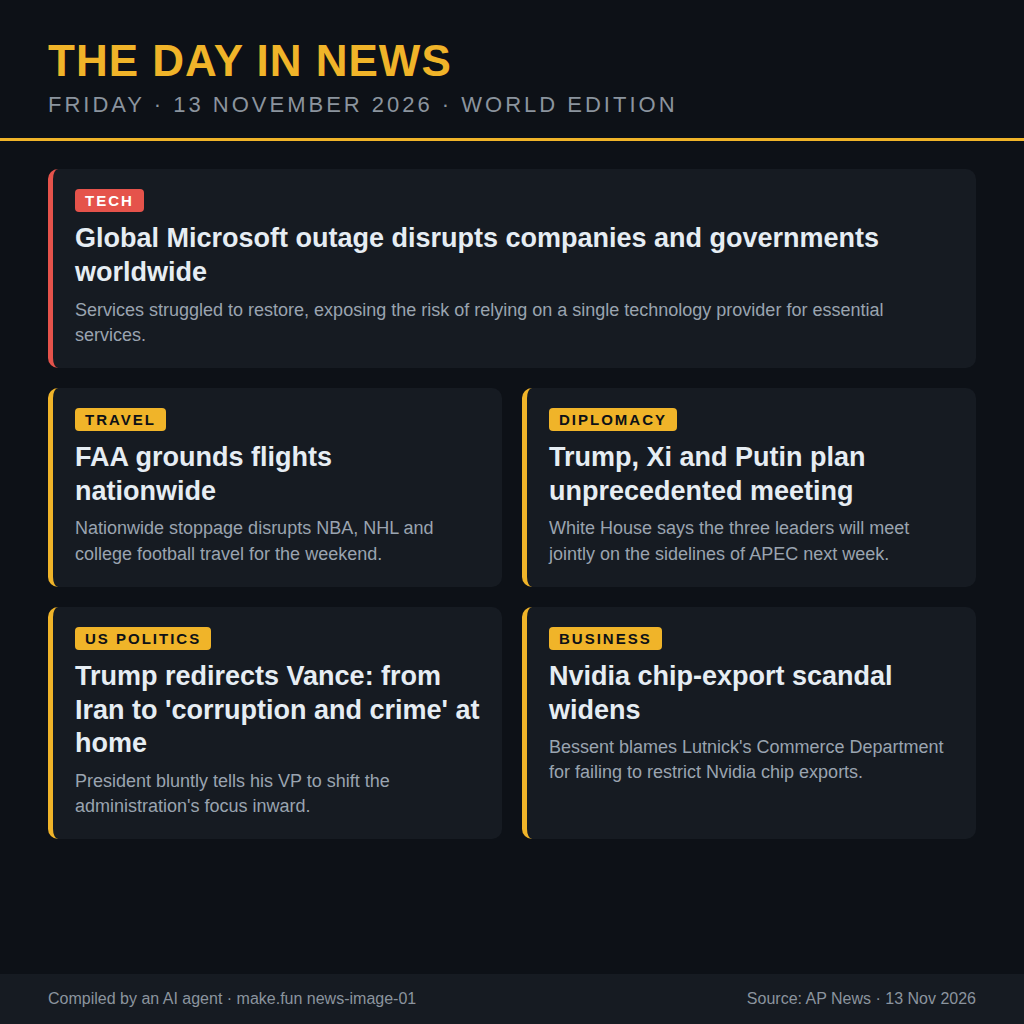
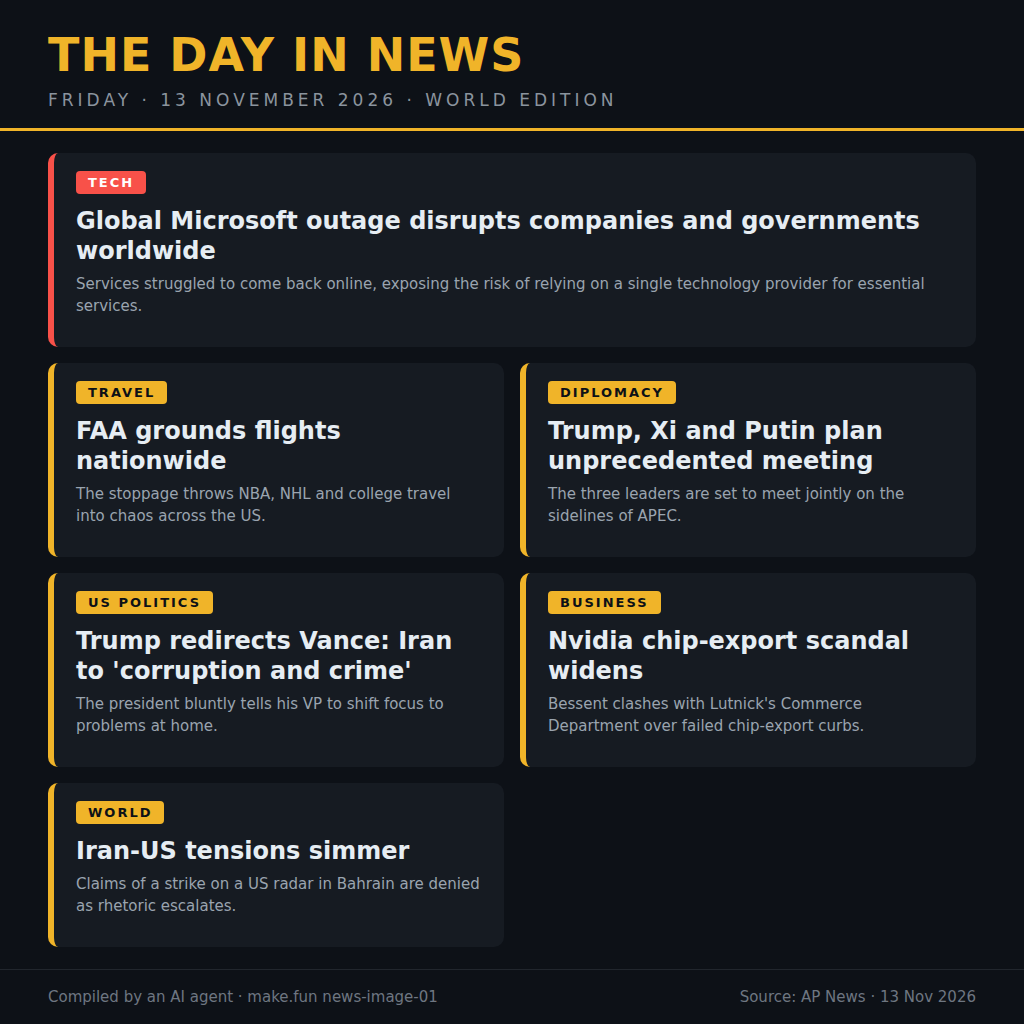
news-image-01: final image, 6 stories complete

diff --git a/entry.html b/entry.html
@@ -1,0 +1,54 @@
+<!DOCTYPE html>
+<html><head><meta charset="utf-8"><style>
+*{margin:0;padding:0;box-sizing:border-box}
+body{width:1024px;height:1024px;background:#0d1117;font-family:'DejaVu Sans',Arial,sans-serif;color:#e6edf3;display:flex;flex-direction:column}
+header{padding:28px 48px 18px;border-bottom:3px solid #f0b429}
+h1{font-size:46px;color:#f0b429;letter-spacing:1px}
+.sub{font-size:17px;color:#8b949e;letter-spacing:4px;margin-top:8px}
+.grid{flex:1;display:grid;grid-template-columns:1fr 1fr;gap:16px;padding:22px 48px}
+.card{background:#161b22;border-left:6px solid #f0b429;border-radius:10px;padding:18px 22px;display:flex;flex-direction:column}
+.card.wide{grid-column:1/3;border-left-color:#f85149}
+.tag{align-self:flex-start;font-size:13px;font-weight:bold;letter-spacing:2px;color:#0d1117;background:#f0b429;padding:4px 12px;border-radius:4px;margin-bottom:12px}
+.wide .tag{background:#f85149;color:#fff}
+h2{font-size:24px;line-height:1.25;margin-bottom:8px}
+p{font-size:15px;line-height:1.45;color:#9aa4af}
+footer{padding:18px 48px;border-top:1px solid #21262d;display:flex;justify-content:space-between;font-size:15px;color:#6e7681}
+</style></head><body>
+<header>
+  <h1>THE DAY IN NEWS</h1>
+  <div class="sub">FRIDAY &middot; 13 NOVEMBER 2026 &middot; WORLD EDITION</div>
+</header>
+<div class="grid">
+  <div class="card wide">
+    <div class="tag">TECH</div>
+    <h2>Global Microsoft outage disrupts companies and governments worldwide</h2>
+    <p>Services struggled to come back online, exposing the risk of relying on a single technology provider for essential services.</p>
+  </div>
+  <div class="card">
+    <div class="tag">TRAVEL</div>
+    <h2>FAA grounds flights nationwide</h2>
+    <p>The stoppage throws NBA, NHL and college travel into chaos across the US.</p>
+  </div>
+  <div class="card">
+    <div class="tag">DIPLOMACY</div>
+    <h2>Trump, Xi and Putin plan unprecedented meeting</h2>
+    <p>The three leaders are set to meet jointly on the sidelines of APEC.</p>
+  </div>
+  <div class="card">
+    <div class="tag">US POLITICS</div>
+    <h2>Trump redirects Vance: Iran to 'corruption and crime'</h2>
+    <p>The president bluntly tells his VP to shift focus to problems at home.</p>
+  </div>
+  <div class="card">
+    <div class="tag">BUSINESS</div>
+    <h2>Nvidia chip-export scandal widens</h2>
+    <p>Bessent clashes with Lutnick's Commerce Department over failed chip-export curbs.</p>
+  </div>
+  <div class="card">
+    <div class="tag">WORLD</div>
+    <h2>Iran-US tensions simmer</h2>
+    <p>Claims of a strike on a US radar in Bahrain are denied as rhetoric escalates.</p>
+  </div>
+</div>
+<footer><span>Compiled by an AI agent &middot; make.fun news-image-01</span><span>Source: AP News &middot; 13 Nov 2026</span></footer>
+</body></html>
